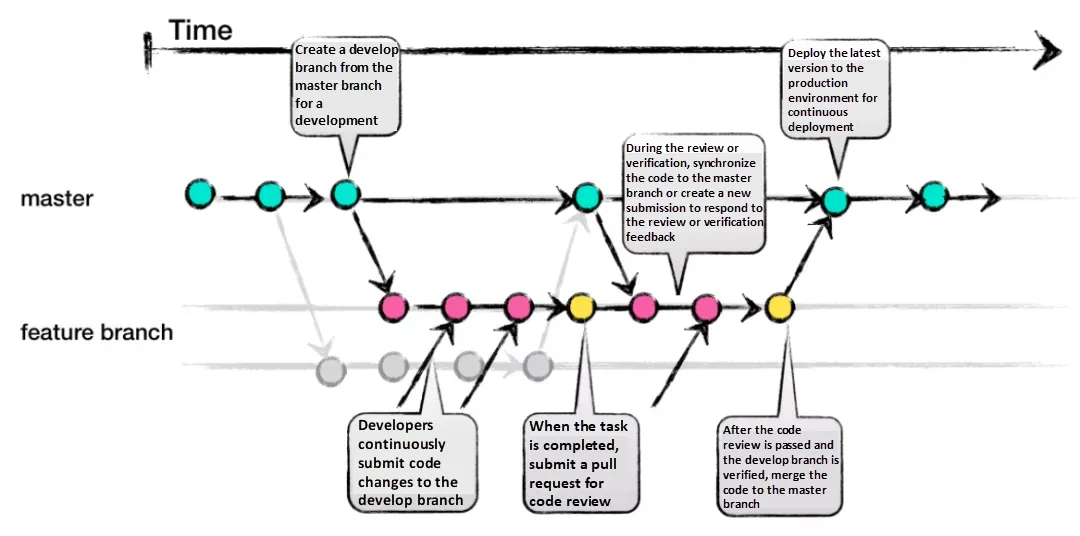
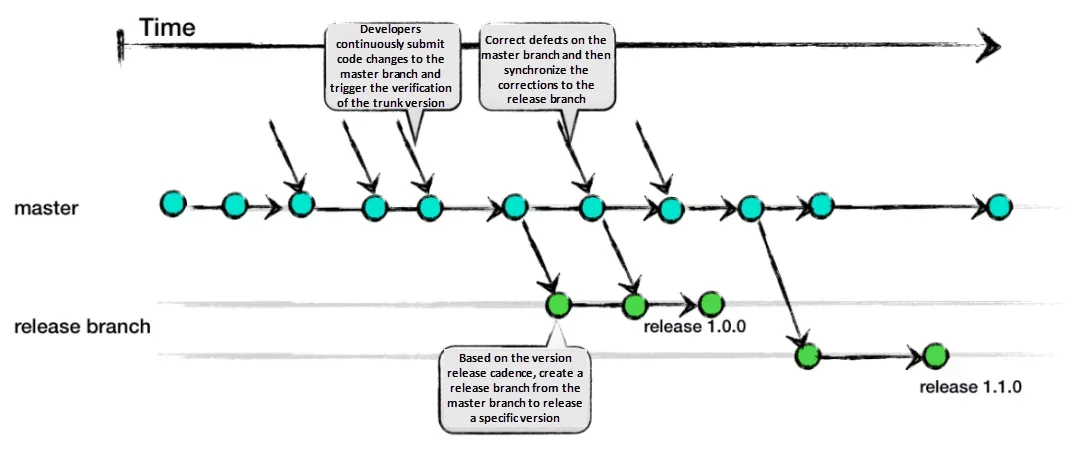
chore: update part03-05-senario files

diff --git a/03-강의준비/05-senario/README.md b/03-강의준비/05-senario/README.md
@@ -63,7 +63,11 @@
 ## 파일 설명
 |파일명|설명|
 |---|---|
-|내용을 입력해주세요.|내용을 입력해주세요.|
+|ci.yml|Github Action을 위한 설정 파일|
+|index.js|expressJS 서버를 구동시키는 엔트리 파일|
+|package.json|npm 패키지 관리 파일|
+|PULL_REQUEST_TEMPLATE.md|PR 템플릿 파일|
+|test.js|테스트 코드 파일|
 
 <br><br>
 
